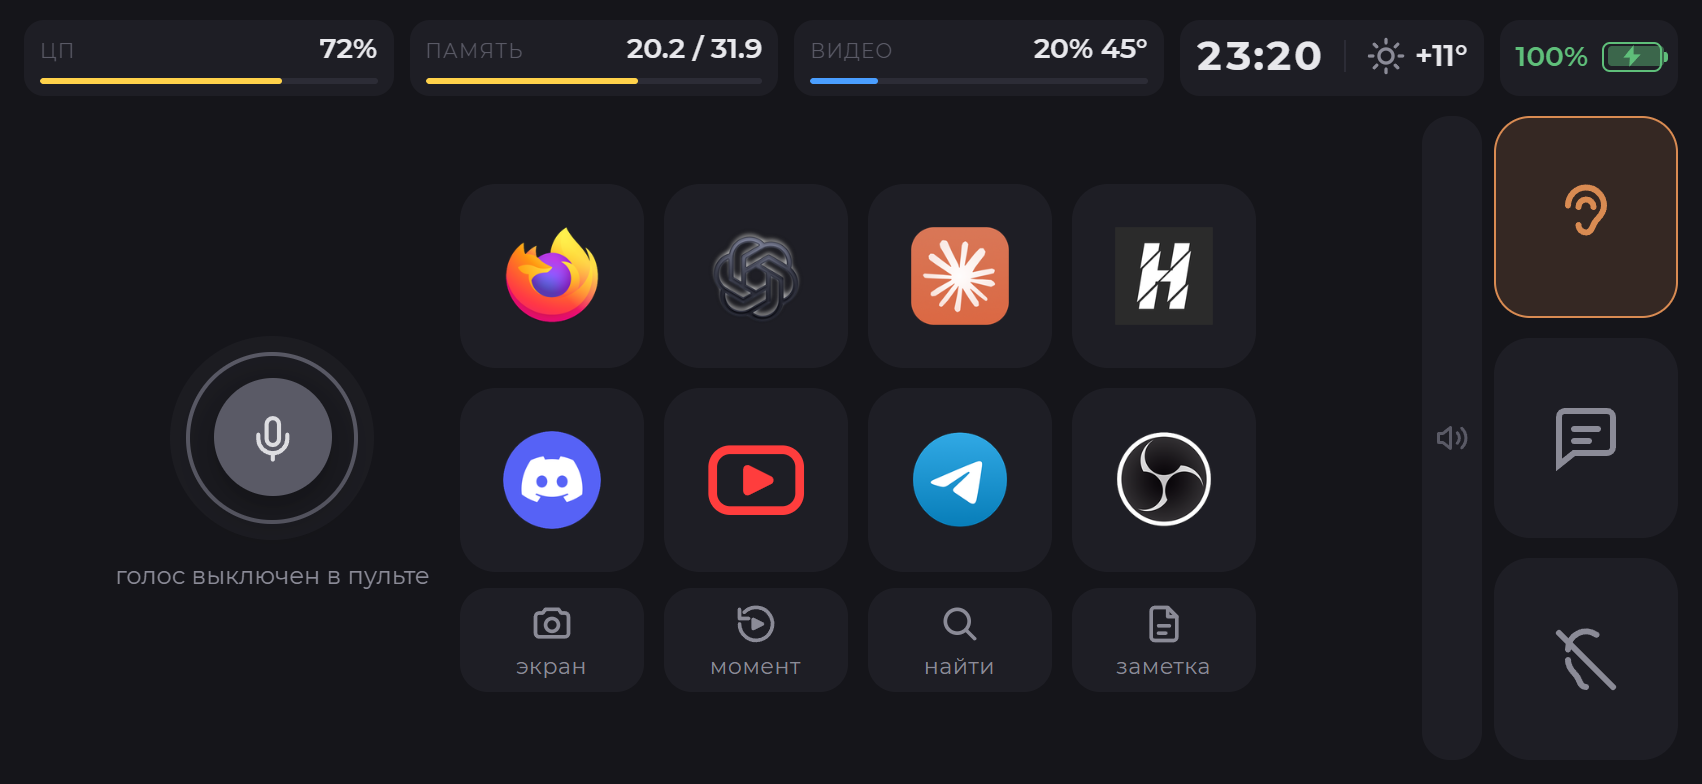
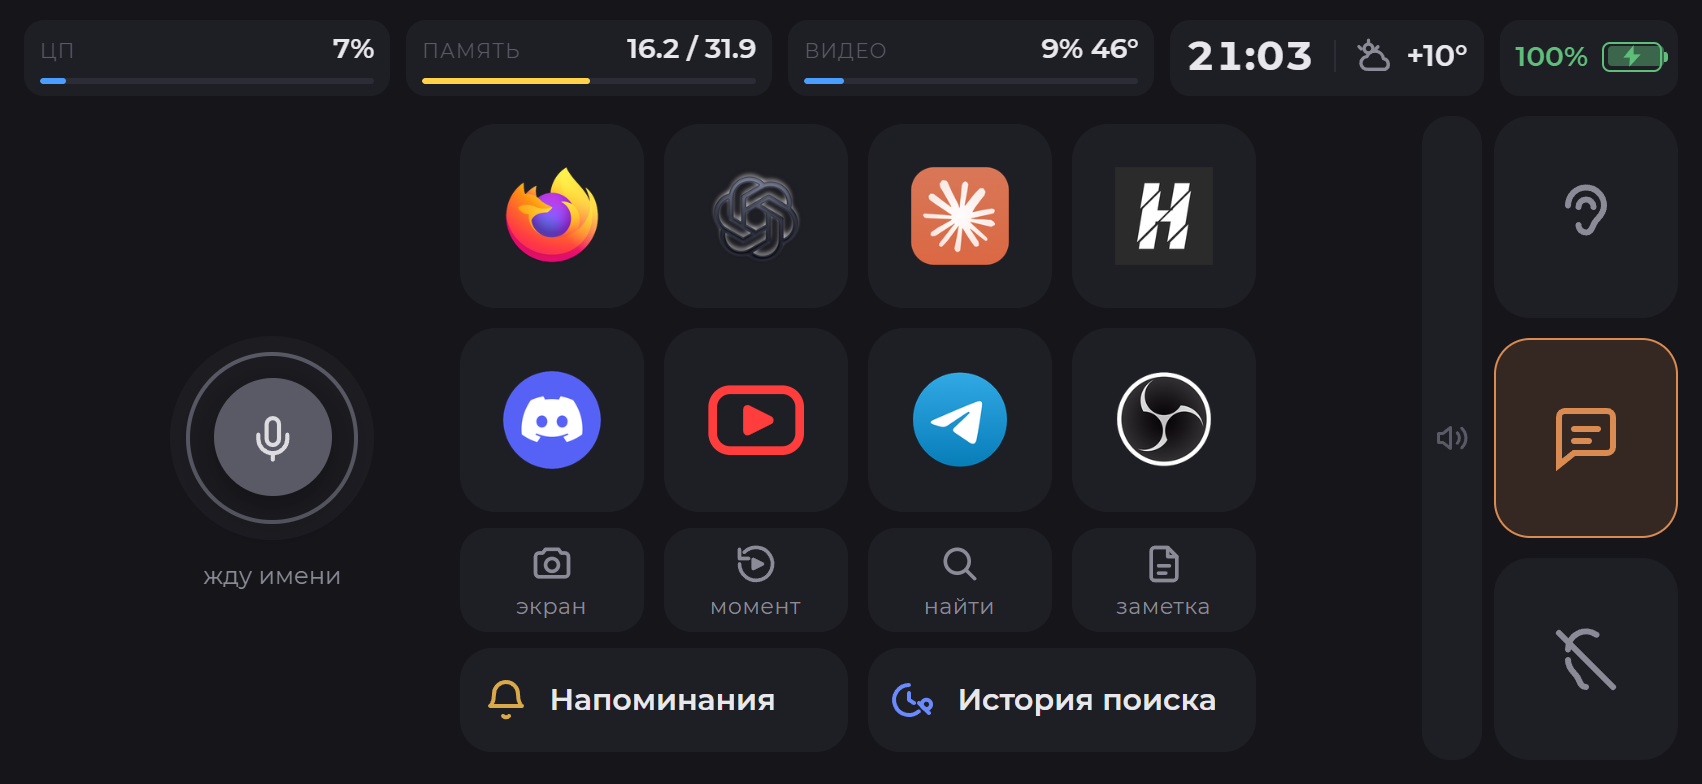
README: новые снимки 0.9.9, iPhone проверен, заметки с разбором
- Пересняты все снимки пульта и телефона, добавлен раздел «Заметки» с
  разбором документа.
- В начале README: Android или iPhone; на iPhone проверено автором.
- Пульт: когда обе модели качественных голосов уже скачаны, больше не пишет
  «осталось скачать» и не показывает лишнюю кнопку.

diff --git a/ui/web/pult.js b/ui/web/pult.js
@@ -3049,6 +3049,12 @@ function показатьГолоса(эл, данные) {
     /* Пока ставятся библиотеки, всё сказано полосой над кнопкой: вторая
        строка «ставлю…» под ней только повторяла её (хозяин, 02.10). */
     эл.железоГолосаСтатус.textContent = ставятся ? '' : 'Качественные голоса ставятся…';
+  } else if (стоят && голосаВсеНаДиске(данные.weights)) {
+    /* Всё уже стоит и скачано: кнопка «Скачать выбранное» качать не будет, а
+       «осталось скачать… Обе модели уже на диске» противоречило само себе
+       (02.10, снимки для README). */
+    эл.железоГолоса.hidden = true;
+    эл.железоГолосаСтатус.textContent = 'Качественные голоса стоят, обе модели на диске';
   } else if (стоят || данные.possible) {
     эл.железоГолоса.hidden = false;
     эл.железоГолосаСтатус.textContent = стоят
@@ -3113,6 +3119,11 @@ function голосаИмя(модель) {
 /* Короткая строка о том, что уже на диске. Библиотеки стоят — ещё не значит,
    что модели скачаны (29.09): сказанное здесь «скачано» значит ровно то, что
    лежит на диске. */
+function голосаВсеНаДиске(веса) {
+  return !!веса && typeof веса === 'object'
+    && ВЕСА_ГОЛОСОВ.every(([ключ]) => веса[ключ] === true);
+}
+
 function голосаВеса(веса) {
   if (!веса || typeof веса !== 'object') return '';
   const есть = ВЕСА_ГОЛОСОВ.filter(([ключ]) => веса[ключ]).map(([, имя]) => имя);
